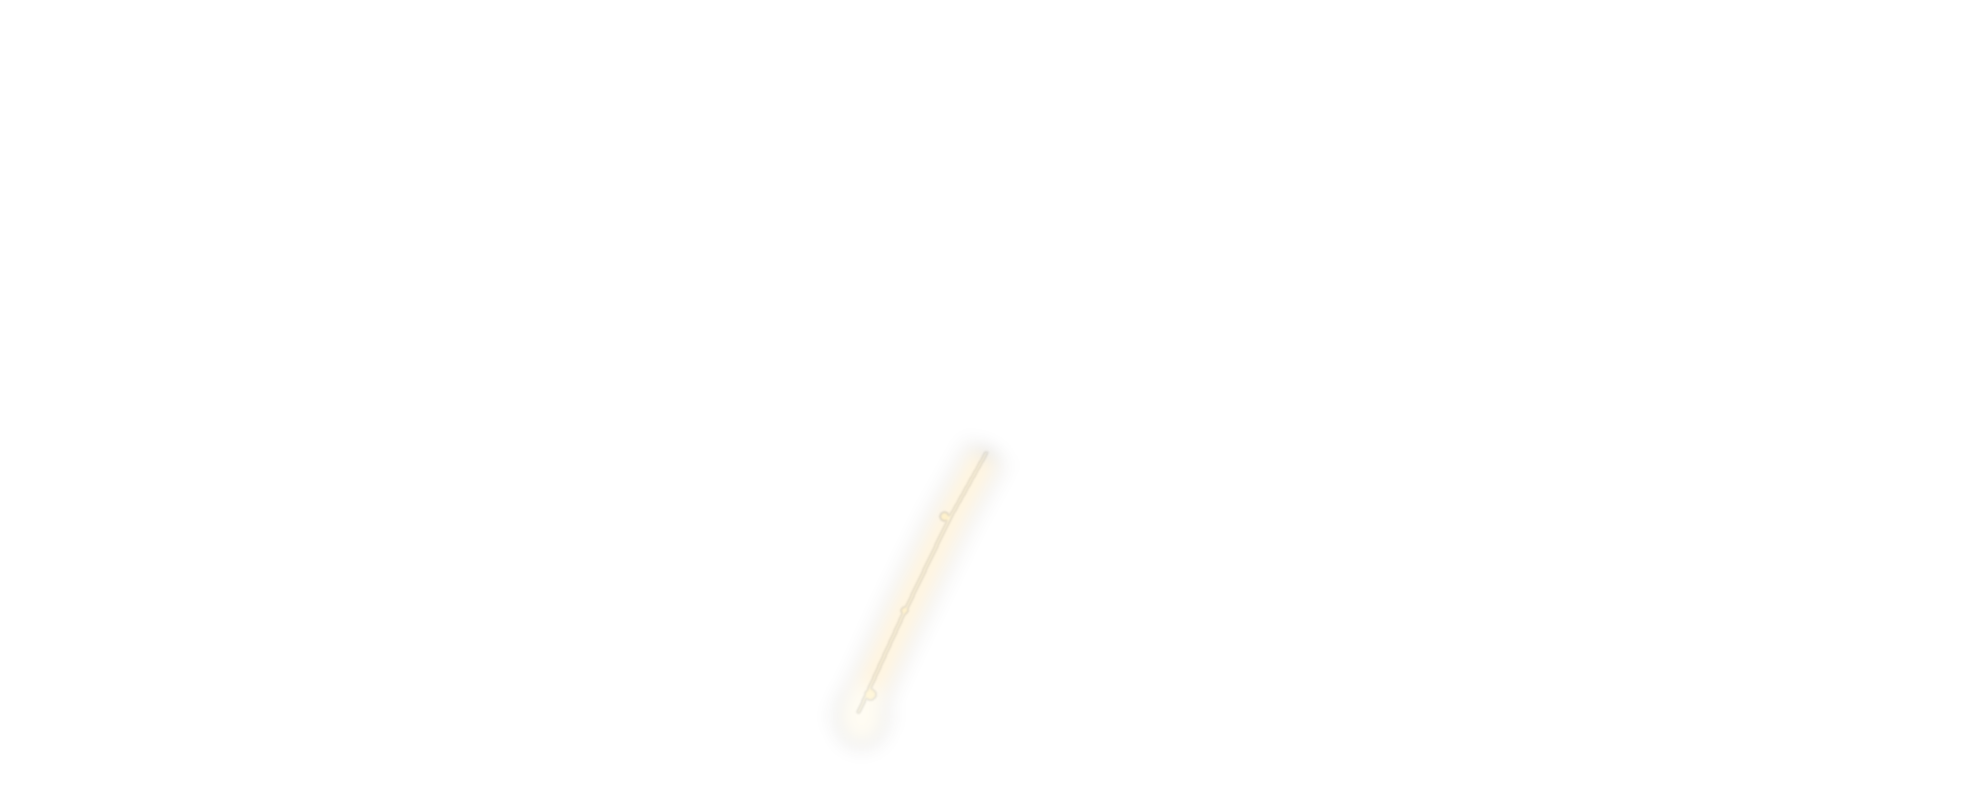
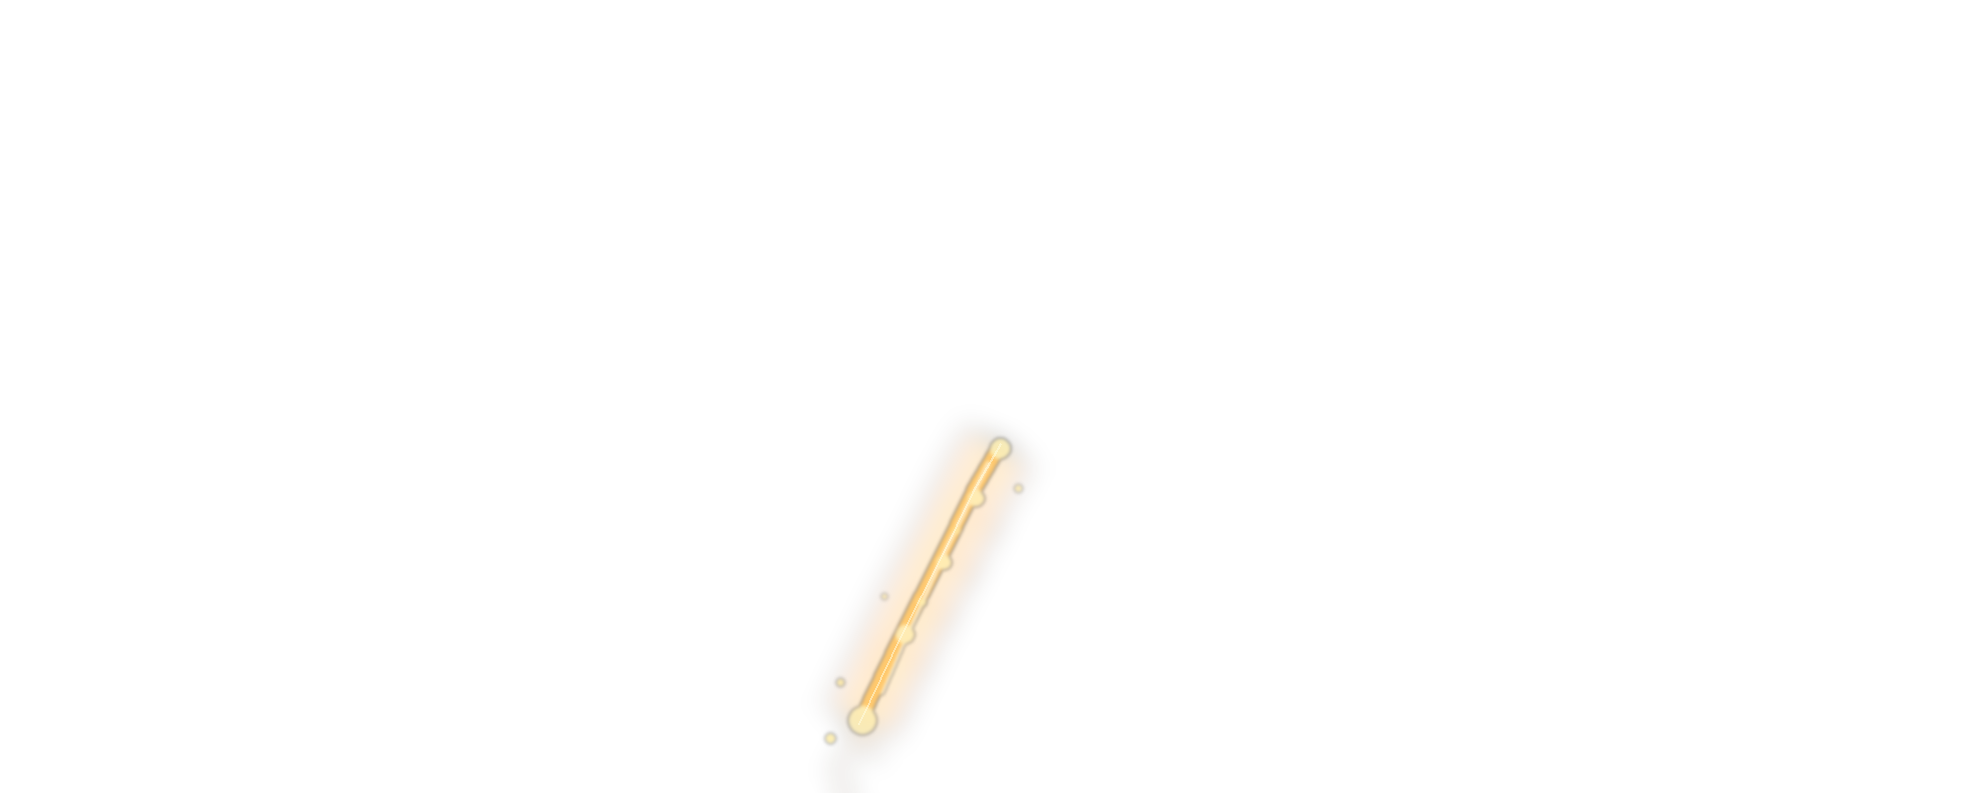
style: 히어로 모션 효과 강화

Changed region(s): [[0.3999, 0.5448, 0.5229, 0.9382]]

diff --git a/style.css b/style.css
@@ -235,21 +235,23 @@ h3 {
   object-position: center top;
   pointer-events: none;
   user-select: none;
+  will-change: opacity, filter, transform;
 }
 
 .hero-sword-layer {
-  opacity: 0.36;
+  opacity: 0.68;
   mix-blend-mode: screen;
-  filter: brightness(1.02) blur(0.2px);
-  animation: hero-sword-layer-pulse 1.85s ease-in-out infinite;
+  filter: brightness(1.34) saturate(1.2) blur(0.08px);
+  transform-origin: 47% 82%;
+  animation: hero-sword-layer-pulse 1.28s ease-in-out infinite;
 }
 
 .hero-hair-layer {
-  opacity: 0.24;
+  opacity: 0.42;
   mix-blend-mode: normal;
-  filter: drop-shadow(0 0 8px rgba(255, 214, 107, 0.12));
-  transform-origin: 64% 8%;
-  animation: hero-hair-layer-sway 3.8s ease-in-out infinite;
+  filter: saturate(1.08) drop-shadow(0 0 10px rgba(255, 214, 107, 0.18));
+  transform-origin: 63% 7%;
+  animation: hero-hair-layer-sway 2.7s ease-in-out infinite;
 }
 
 .hero-inner {
@@ -2039,31 +2041,43 @@ h3 {
 
 @keyframes hero-sword-layer-pulse {
   0%, 100% {
-    opacity: 0.26;
-    filter: brightness(0.96) blur(0.4px);
+    opacity: 0.42;
+    filter: brightness(1.05) saturate(1.05) blur(0.6px);
+    transform: translate3d(0, 0, 0) scale(0.985);
   }
-  36% {
-    opacity: 0.52;
-    filter: brightness(1.22) blur(0.12px);
+  28% {
+    opacity: 0.94;
+    filter: brightness(1.75) saturate(1.35) blur(0.05px);
+    transform: translate3d(-3px, 4px, 0) scale(1.045);
   }
-  62% {
-    opacity: 0.34;
-    filter: brightness(1.02) blur(0.3px);
+  48% {
+    opacity: 0.66;
+    filter: brightness(1.24) saturate(1.18) blur(0.35px);
+    transform: translate3d(2px, -2px, 0) scale(1.012);
+  }
+  72% {
+    opacity: 0.86;
+    filter: brightness(1.55) saturate(1.28) blur(0.12px);
+    transform: translate3d(-1px, 3px, 0) scale(1.03);
   }
 }
 
 @keyframes hero-hair-layer-sway {
   0%, 100% {
-    opacity: 0.18;
+    opacity: 0.28;
     transform: translate3d(0, 0, 0) rotate(0deg) scale(1);
   }
-  44% {
-    opacity: 0.34;
-    transform: translate3d(3px, -1px, 0) rotate(0.45deg) scale(1.002);
+  38% {
+    opacity: 0.58;
+    transform: translate3d(9px, -4px, 0) rotate(1.15deg) scale(1.008);
   }
-  70% {
-    opacity: 0.24;
-    transform: translate3d(1px, 1px, 0) rotate(-0.18deg) scale(1);
+  62% {
+    opacity: 0.38;
+    transform: translate3d(-3px, 2px, 0) rotate(-0.45deg) scale(1.002);
+  }
+  82% {
+    opacity: 0.5;
+    transform: translate3d(5px, -1px, 0) rotate(0.55deg) scale(1.004);
   }
 }
 
